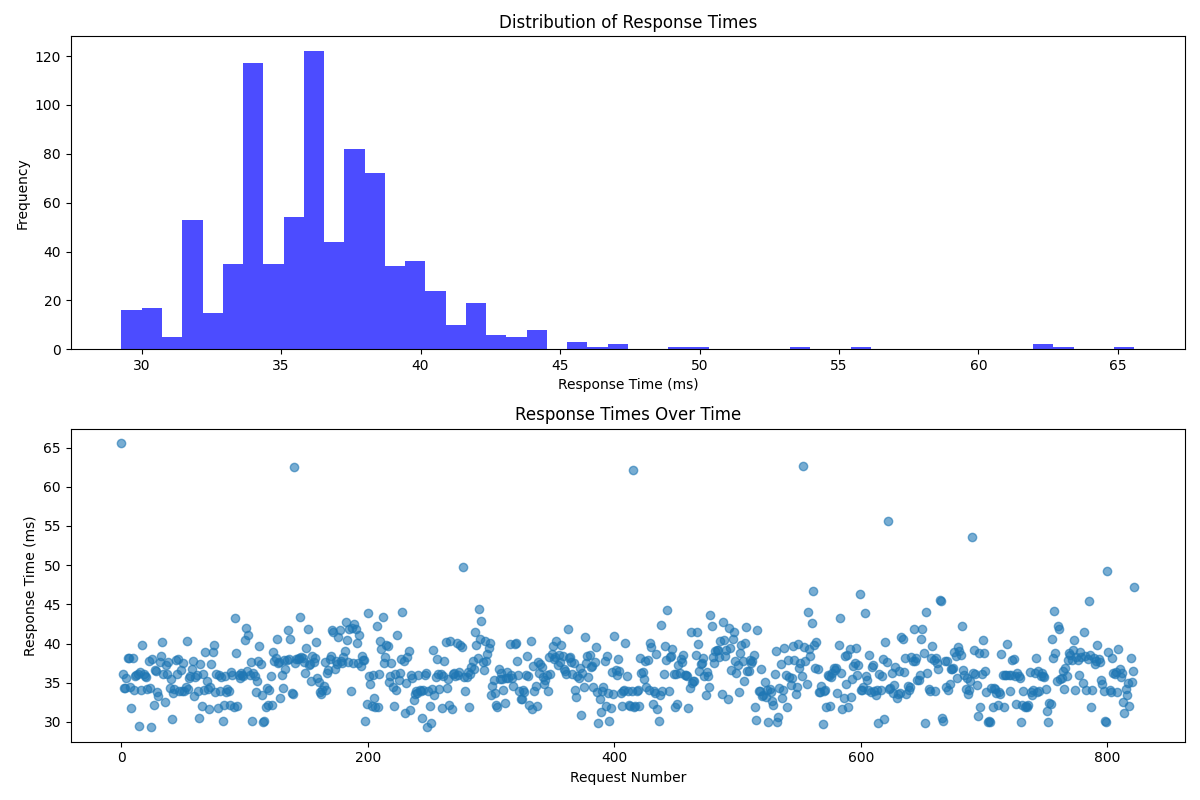
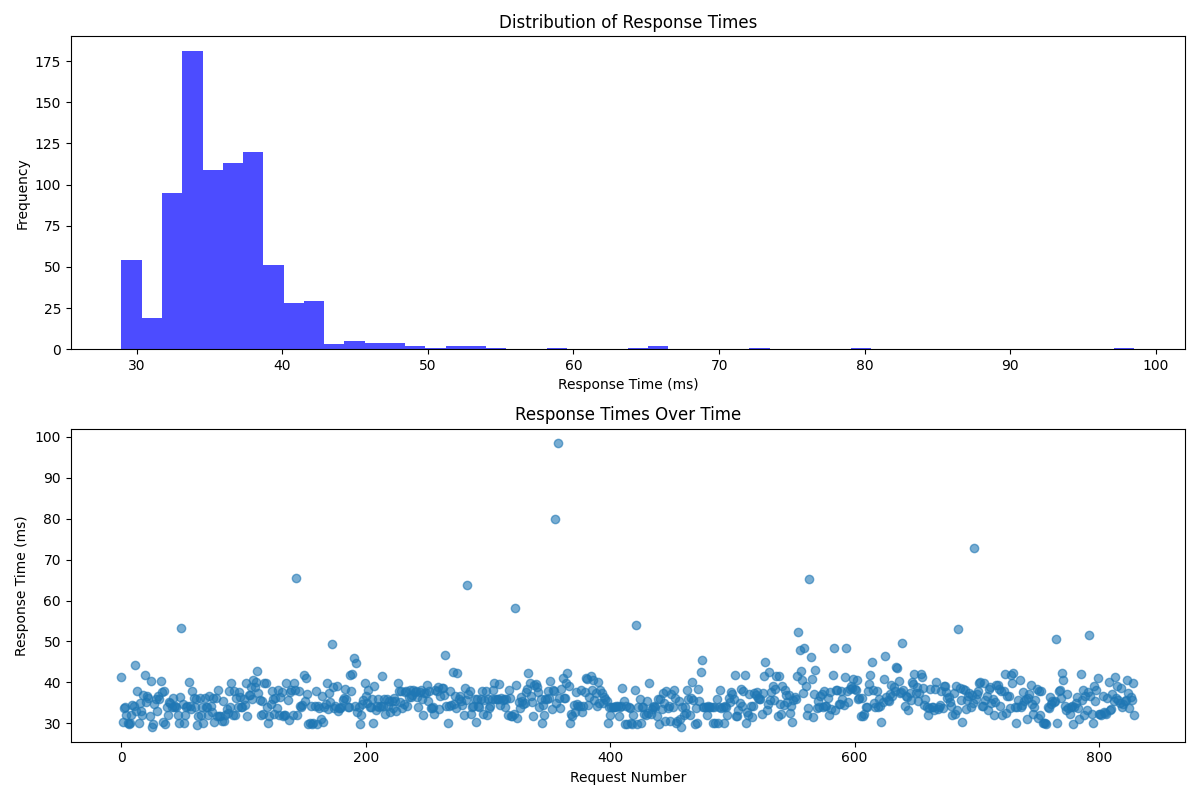
added new statistics pic

diff --git a/hw1b/load_test.py b/hw1b/load_test.py
@@ -29,7 +29,7 @@ def load_test(url, duration_seconds=30):
 
     return response_times
 
-EC2_URL = "http://44.248.242.185:8080/albums"
+EC2_URL = "http://44.244.116.4:8080/albums"
 
 response_times = load_test(EC2_URL)
 
